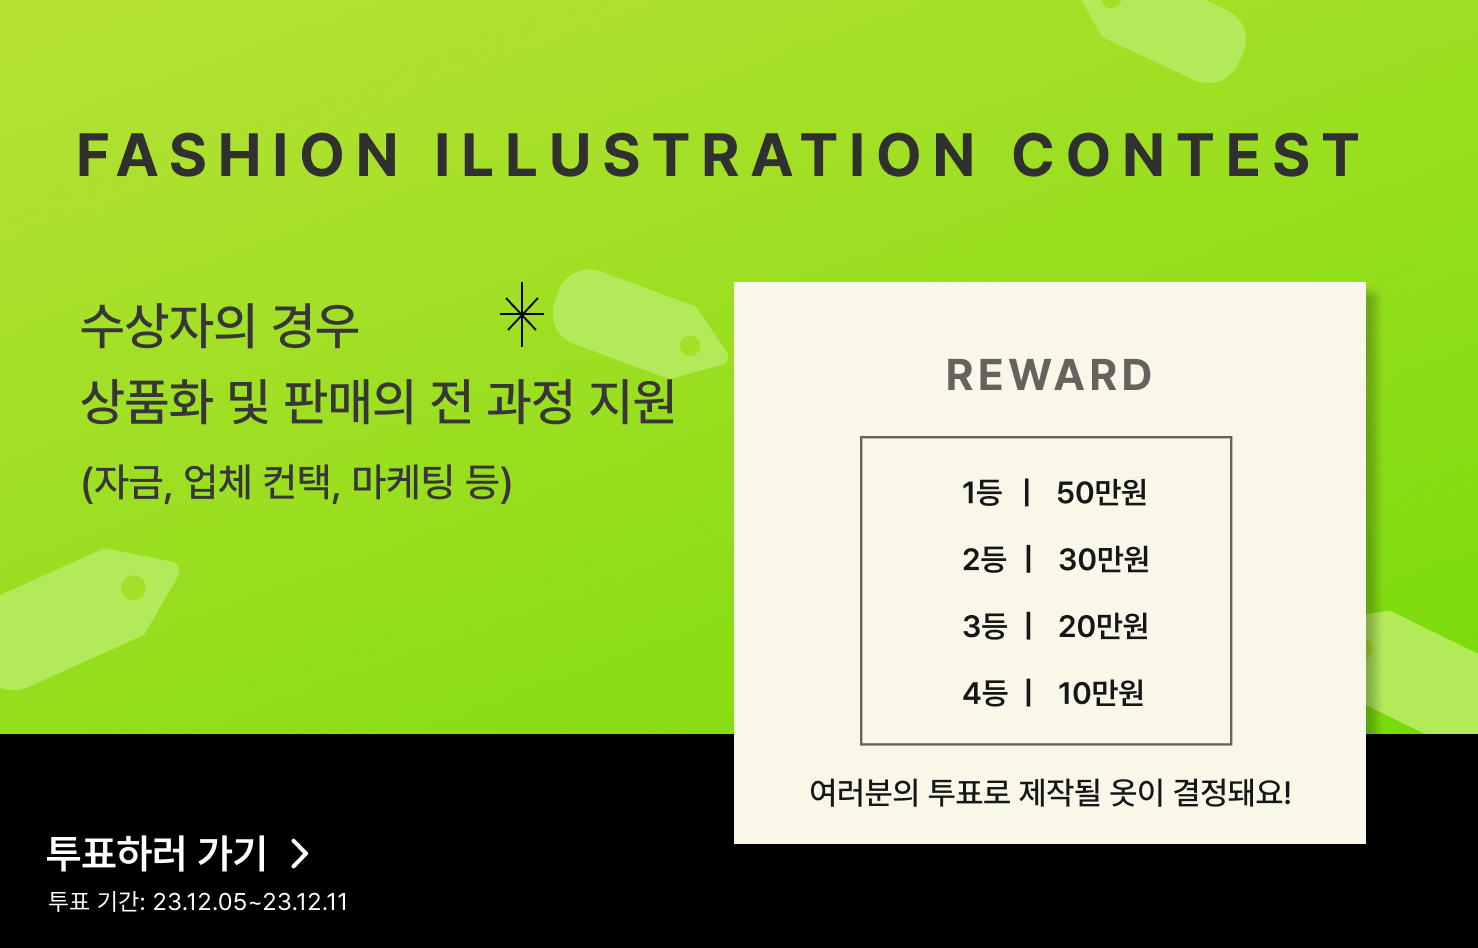
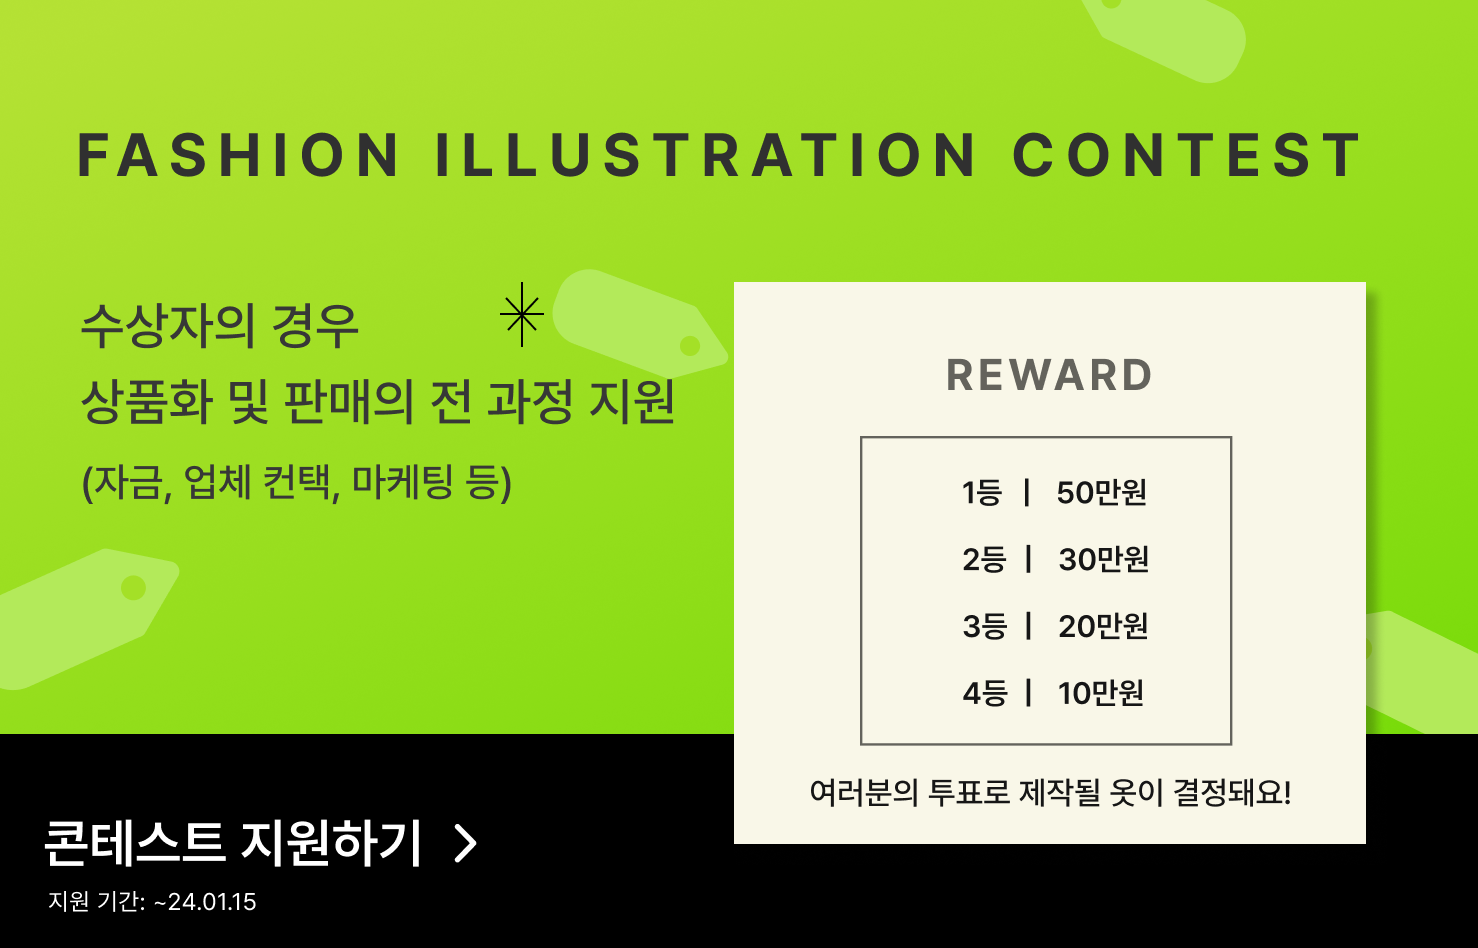
[FIX] 랜딩 배너 변경

Changed region(s): [[0.0311, 0.8565, 0.3424, 0.9789]]

diff --git a/src/components/landing/LandingSection.tsx b/src/components/landing/LandingSection.tsx
@@ -88,7 +88,11 @@ const LandingSection = () => {
 						autoplay={{ delay: 2500, disableOnInteraction: false }}
 					>
 						<StyledSwiperSlide>
-							<img src={selectedImage + '1.png'} alt="landing1" onClick={handleClick(`/vote`)} />
+							<img
+								src={selectedImage + '1.png'}
+								alt="landing1"
+								onClick={() => onClickToExternel('https://bit.ly/web_contest_1')}
+							/>
 						</StyledSwiperSlide>
 						<StyledSwiperSlide
 							onClick={() => {
